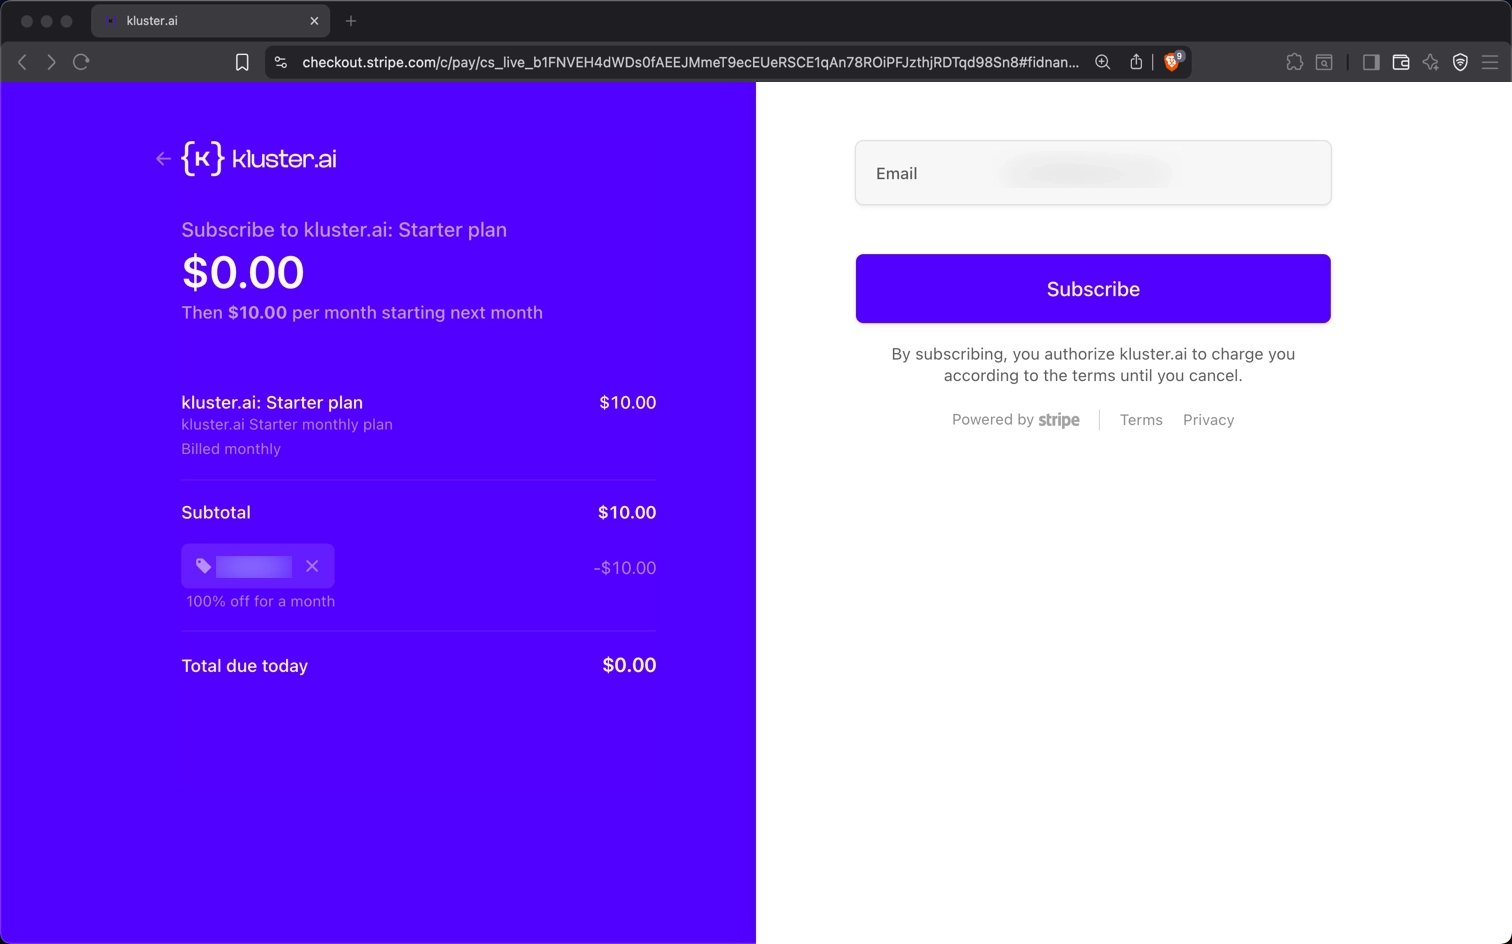
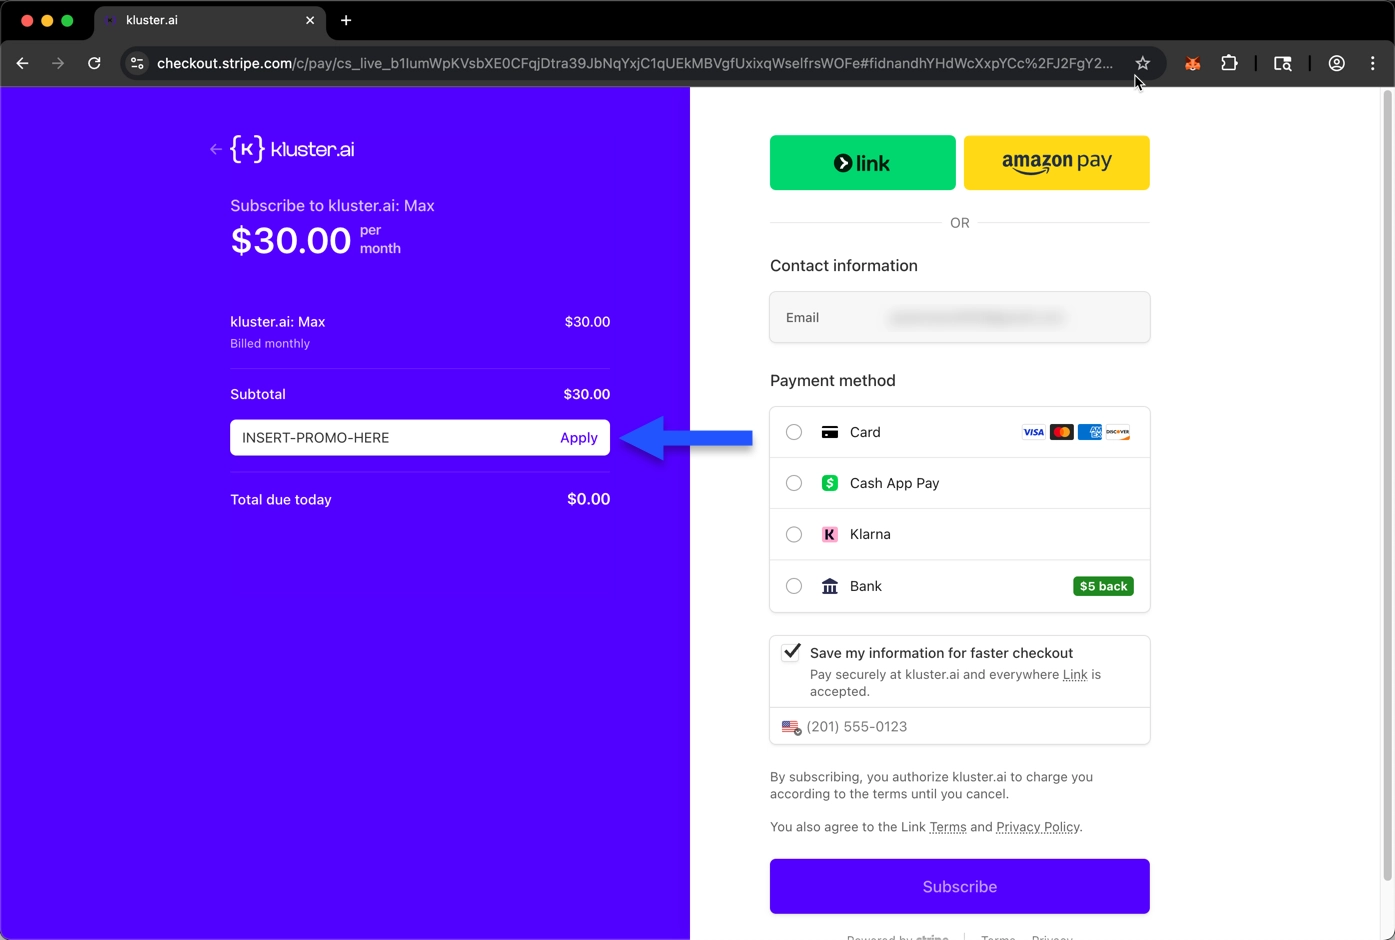
Revise Promo Codes (#232)
* add activation codes updates

* rev

* rev

* rev

diff --git a/code-reviews/activation-codes.md b/code-reviews/activation-codes.md
@@ -20,13 +20,13 @@ Before redeeming an activation code, ensure you have:
 
 Follow these steps to redeem your activation code:
 
-1. Log in to your [kluster.ai account](https://platform.kluster.ai){target=_blank}. First-time users receive 50 free code reviews under the trial plan.
+1. Log in to your [kluster.ai account](https://platform.kluster.ai){target=_blank}.
 
 2. Click the **upgrade** button in the top right corner of the platform.
 
     ![Upgrade button on kluster.ai platform](/images/code-reviews/activation-codes/activation-codes-01.webp)
 
-3. On the plans page, choose the subscription plan you want. Make sure your activation code matches the plan you select, then click **Subscribe**.
+3. On the plans page, click **Start Max Plan**.
 
     ![kluster.ai subscription plans](/images/code-reviews/activation-codes/activation-codes-02.webp)
 
@@ -42,14 +42,6 @@ Follow these steps to redeem your activation code:
 
     Complete the checkout process by clicking **Subscribe**. Your promotional credits will be immediately applied to your account.
 
-## Troubleshooting
-
-If your activation code doesn't work:
-
-- Confirm the code corresponds to the plan you selected. Activation codes are plan-specific (Starter, Team, or Enterprise).
-- Check that the code hasn't expired.
-- Ensure you haven't already used the code on your account.
-
 ## Need help?
 
-If you encounter any issues with activation codes, join the [Discord community](https://discord.com/invite/klusterai){target=_blank} for support.
+If you run into issues redeeming an activation code, click the **Support** button in the lower-right corner of [platform.kluster.ai](https://platform.kluster.ai/){target=_blank}.
